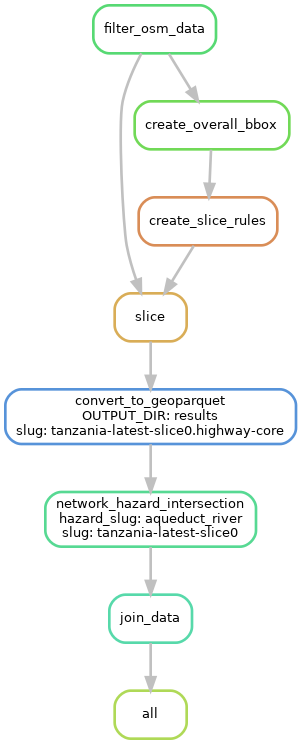
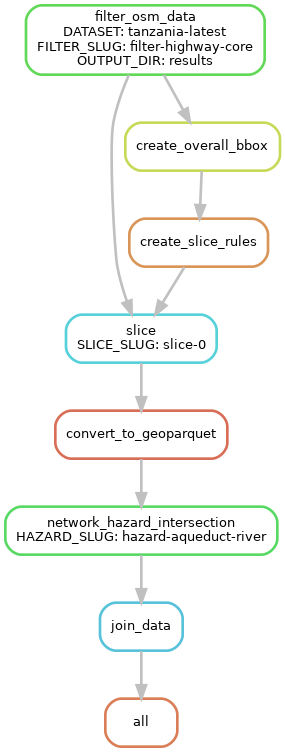
Regularise wildcard slugs
The wildcard patterns were hard to disambiguate from one another due to different separators. This commit fixes this issue by always using _ to separate different parts of the filename.
* All slugs are separated by _
* _ is not allowed in any slug
* All slug wildcards include their slug name as a prefix, e.g. slice-0, filter-highway-core
* Rules use wildcard specifications wherever possible
* Explicit (expand-based) file expectations are moved to a test_<rule_name> rule so that rules can be individually tested and debugged (avoiding the Snakemake constraint that you can't run a wildcard rule as the endpoint).
* The highway-core section of each file is now generated programatically from the base filename of the filter file
* Hazard and filter filenames (and the dataset) have _ replaced with - to avoid conflicts with wildcards
* Slice now appears after filter in the filenames
* Updated tests to respect new file naming conventions
* Updated documentation to respect new file naming conventions
* Updated DAGs to show cleaner wildcard-based workflow

Changed region(s): [[0.0, 0.0, 1.0, 1.0], [0.0, 0.5255, 0.0561, 0.5874]]

diff --git a/workflow/scripts/network_hazard_intersection.py b/workflow/scripts/network_hazard_intersection.py
@@ -15,12 +15,11 @@ from pyproj import Geod
 from snail.core.intersections import get_cell_indices, split_linestring
 from tqdm import tqdm
 
-
 def main(network_edges_path, attrs, hazard_data_path, hazard_data_csv, outputs_path):
     # Filename to use for output
-    network_slug = os.path.basename(network_edges_path).replace(".geoparquet", "")
-    hazard_slug = os.path.basename(hazard_data_csv).replace(".csv", "")
-    slug = f"{network_slug}_{hazard_slug}"
+    network_slug = os.path.basename(network_edges_path).replace(".geoparquet", "")  # already _ safe
+    hazard_slug = os.path.basename(hazard_data_csv).replace(".csv", "").replace("_", "-")
+    slug = f"{network_slug}_hazard-{hazard_slug}"
 
     # Read hazard metadata
     # This is a config/steering file for this script, assumes hazards are all on the same
@@ -92,11 +91,11 @@ def main(network_edges_path, attrs, hazard_data_path, hazard_data_csv, outputs_p
             os.path.join(hazard_data_path, raster.filename))
 
     logging.info("Write data")
-    core_splits.to_parquet(os.path.join(outputs_path, f'{slug}_splits.geoparquet'))
+    core_splits.to_parquet(os.path.join(outputs_path, f'{slug}.geoparquet'))
 
     logging.info("Write data without geometry")
     pandas.DataFrame(core_splits.drop(columns=['geometry'])) \
-        .to_parquet(os.path.join(outputs_path, f'{slug}_splits.parquet'))
+        .to_parquet(os.path.join(outputs_path, f'{slug}.parquet'))
 
     logging.info("Done.")
 
@@ -116,11 +115,11 @@ def write_empty_files(columns, slug, outputs_path):
         raise ValueError("Empty dataframe must contain a geometry column")
     logging.info("Write data")
     empty_geodf.to_parquet(
-        os.path.join(outputs_path, f"{slug}_splits.geoparquet")
+        os.path.join(outputs_path, f"{slug}.geoparquet")
     )
     logging.info("Write data without geometry")
     pandas.DataFrame(empty_geodf.drop(columns=["geometry"])).to_parquet(
-        os.path.join(outputs_path, f"{slug}_splits.parquet")
+        os.path.join(outputs_path, f"{slug}.parquet")
     )
 
 
@@ -128,7 +127,7 @@ if __name__ == "__main__":
     logging.basicConfig(format="%(asctime)s %(message)s", level=logging.INFO)
     tqdm.pandas()
     try:
-        network_edges_path = snakemake.input["network"]
+        network_edges_path = snakemake.input['network']
         attrs = snakemake.config["edge_attrs"]
         hazard_data_path = snakemake.config["hazard_data_dir"]
         hazard_csv = snakemake.input["hazard_csv"]

diff --git a/tests/unit/test_network_hazard_intersection.py b/tests/unit/test_network_hazard_intersection.py
@@ -22,20 +22,22 @@ def test_network_hazard_intersection():
         shutil.copytree(data_path, workdir)
 
         # dbg
-        print("results/splits/northeast-oxford-slice0.highway-core_aqueduct_river_splits.geoparquet results/splits/northeast-oxford-slice0.highway-core_aqueduct_river_splits.parquet", file=sys.stderr)
+        print("results/splits/northeast-oxford_filter-highway-core_slice-0_hazard-aqueduct-river.geoparquet results/splits/northeast-oxford_filter-highway-core_slice-0_hazard-aqueduct-river.parquet", file=sys.stderr)
 
         # Run the test job.
         sp.check_output([
             "python",
             "-m",
             "snakemake",
-            "results/splits/northeast-oxford-slice0.highway-core_aqueduct_river_splits.geoparquet",
-            "results/splits/northeast-oxford-slice0.highway-core_aqueduct_river_splits.parquet",
-            "-Fn",
+            "results/splits/northeast-oxford_filter-highway-core_slice-0_hazard-aqueduct-river.geoparquet",
+            "results/splits/northeast-oxford_filter-highway-core_slice-0_hazard-aqueduct-river.parquet",
+            # "-F",
             "-j1",
             "--keep-target-files",
             "--configfile",
             "tests/config.yaml",
+            "--config",
+            "slice_count=1",
     
             "--directory",
             workdir,

diff --git a/tests/unit/test_slice.py b/tests/unit/test_slice.py
@@ -22,21 +22,20 @@ def test_slice():
         shutil.copytree(data_path, workdir)
 
         # dbg
-        print("results/slices/northeast-oxford-slice0.highway-core.osm.pbf", file=sys.stderr)
+        print("results/slices/northeast-oxford_filter-highway-core_slice-0.osm.pbf", file=sys.stderr)
 
         # Run the test job.
         sp.check_output([
             "python",
             "-m",
             "snakemake", 
-            "results/slices/northeast-oxford-slice0.highway-core.osm.pbf",
+            "results/slices/northeast-oxford_filter-highway-core_slice-0.osm.pbf",
             # "-F",
             "-j1",
             "--keep-target-files",
             "--configfile",
             "tests/config.yaml",
-            "--config",
-            "slice_count=1",
+
             "--directory",
             workdir,
         ])

diff --git a/tests/unit/test_join_data.py b/tests/unit/test_join_data.py
@@ -22,14 +22,14 @@ def test_join_data():
         shutil.copytree(data_path, workdir)
 
         # dbg
-        print("results/northeast-oxford.highway-core_aqueduct_river_splits.geoparquet", file=sys.stderr)
+        print("results/northeast-oxford_filter-highway-core_hazard-aqueduct-river.geoparquet", file=sys.stderr)
 
         # Run the test job.
         sp.check_output([
             "python",
             "-m",
             "snakemake", 
-            "results/northeast-oxford.highway-core_aqueduct_river_splits.geoparquet",
+            "results/northeast-oxford_filter-highway-core_hazard-aqueduct-river.geoparquet",
             "-F", 
             "-j1",
             "--keep-target-files",

diff --git a/tests/unit/test_convert_to_geoparquet.py b/tests/unit/test_convert_to_geoparquet.py
@@ -22,14 +22,14 @@ def test_convert_to_geoparquet():
         shutil.copytree(data_path, workdir)
 
         # dbg
-        print("results/geoparquet/northeast-oxford-slice0.highway-core.geoparquet", file=sys.stderr)
+        print("results/geoparquet/northeast-oxford_filter-highway-core_slice-0.geoparquet", file=sys.stderr)
 
         # Run the test job.
         sp.check_output([
             "python",
             "-m",
             "snakemake", 
-            "results/geoparquet/northeast-oxford-slice0.highway-core.geoparquet",
+            "results/geoparquet/northeast-oxford_filter-highway-core_slice-0.geoparquet",
             "-F", 
             "-j1",
             "--keep-target-files",

diff --git a/tests/unit/test_create_slice_rules.py b/tests/unit/test_create_slice_rules.py
@@ -22,14 +22,14 @@ def test_create_slice_rules():
         shutil.copytree(data_path, workdir)
 
         # dbg
-        print("results/json/northeast-oxford-extracts.geojson", file=sys.stderr)
+        print("results/json/northeast-oxford_filter-highway-core-extracts.geojson", file=sys.stderr)
 
         # Run the test job.
         sp.check_output([
             "python",
             "-m",
             "snakemake", 
-            "results/json/northeast-oxford-extracts.geojson",
+            "results/json/northeast-oxford_filter-highway-core-extracts.geojson",
             "-F", 
             "-j1",
             "--keep-target-files",

diff --git a/workflow/scripts/prepare-extracts.py b/workflow/scripts/prepare-extracts.py
@@ -69,8 +69,8 @@ for extract in originaljsonfile["extracts"]:
     dataset, ext = splitext(extract["output"])
     for n, bbox in enumerate(slice_subextracts(extract["bbox"], n)):
         subextractsjson["extracts"].append(
-            {"bbox": bbox, "output": f"{dataset}-slice{n}{ext}"}
+            {"bbox": bbox, "output": f"{dataset}_slice-{n}{ext}"}
         )
-    with open(join(out_dir, "json", dataset + "-extracts.geojson"), "w") as fp:
+    with open(join(out_dir, "json", f"{dataset}-extracts.geojson"), "w") as fp:
         json.dump(subextractsjson, fp, indent=4)
     subextractsjson["extracts"].clear()

diff --git a/tests/unit/test_filter_osm_data.py b/tests/unit/test_filter_osm_data.py
@@ -22,14 +22,14 @@ def test_filter_osm_data():
         shutil.copytree(data_path, workdir)
 
         # dbg
-        print("results/northeast-oxford.highway-core.osm.pbf", file=sys.stderr)
+        print("results/northeast-oxford_filter-highway-core.osm.pbf", file=sys.stderr)
 
         # Run the test job.
         sp.check_output([
             "python",
             "-m",
             "snakemake", 
-            "results/northeast-oxford.highway-core.osm.pbf",
+            "results/northeast-oxford_filter-highway-core.osm.pbf",
             "-F", 
             "-j1",
             "--keep-target-files",

diff --git a/README.md b/README.md
@@ -131,26 +131,27 @@ associating road splits to corresponding flood levels.
 The pipeline consists in the following steps:
 
 1. The initial OSM dataset is filtered, keeping only relevant tags for road links
-   (using `osmium tags-filter`. This results in a smaller file
-   `<output_dir>/<dataset>.highway-core.osm.pbf`.
+   (using `osmium tags-filter`). This results in a smaller file
+   `<output_dir>/<dataset>.<filters>.osm.pbf`, where `<filters>` is the
+   filename of the `osmium_tags_filter` file in the config.
 2. The OSM dataset's headers are examined for a `bbox` property and that is used
    to determine the bounding box for the whole area (`<output_dir>/json/<dataset>.json`).
 3. The OSM dataset bounding box is sliced into a grid of smaller bounding boxes
    according to the `slice_count` config option (`<output_dir>/json/<dataset>-extracts.geojson`).
 4. The filtered OSM file is sliced into areas of equal size using the bounding 
-   box grid (`<output_dir>/slices/<dataset>-slice<N>.osm.pbf`).
+   box grid (`<output_dir>/slices/<dataset>_slice<N>.osm.pbf`).
 5. Each filtered OSM dataset slice is then converted to the GeoParquet data format,
-   resulting in `<output_dir>/geoparquet/<dataset>-slice<N>.highway-core.geoparquet`.
+   resulting in `<output_dir>/geoparquet/<dataset>_slice<N>_<filters>.geoparquet`.
 6. Each geoparquet slice is intersected against flood level data from the
    aqueduct dataset. The aqueduct dataset itself consists of a collection of
    raster data files. The network/hazard intersection results in data
-   `<output_dir>/splits/<dataset>-slice<N>.highway-core.splits.geoparquet` describing
+   `<output_dir>/splits/<dataset>_slice<N>_<filters>.splits.geoparquet` describing
    roads split according to the raster grid and associated flood level values.
    A corresponding `parquet` files (without geometries) is also created.
 7. Split data (one file per slice, see step 1) is then joined into a unique
    dataset describing splits and associated flood level values for the whole
    original OSM dataset. This results in
-   `<output_dir>/<dataset>.highway-core_aqueduct_river_splits.geoparquet`.
+   `<output_dir>/<dataset>_filter-<filters>_hazard-aqueduct-river.geoparquet`.
 
 ### Keeping things tidy
 
@@ -161,7 +162,7 @@ snakemake clean
 ```
 
 Note that this will *not* remove the final data files
-`<output_dir>/<dataset>.highway-core.splits.[geoparquet, parquet]`.
+`<output_dir>/<dataset>.<filters>.splits.[geoparquet, parquet]`.
 
 Snakemake has utilities to improve the workflow code quality:
 - `snakemake --lint` suggests improvements and fixes for common problems

diff --git a/docs/src/user-guide/outputs/slice.md b/docs/src/user-guide/outputs/slice.md
@@ -1,16 +1,16 @@
 # Slice OSM dataset
 
-The filtered dataset (`./results/tanzania-latest.highway-core.osm.pbf`) is sliced into areas of equal size
+The filtered dataset (`./results/tanzania-latest_filter-highway-core.osm.pbf`) is sliced into areas of equal size
 according to the slices defined in (`./data/tanzania-latest-extracts.geojson`).
 We'll find these in the `results/slices` directory.
 As with the main .osm.pbf file, we can view this in QGIS. 
 
-Open QGIS and load in the _lines_ for the filtered datafile, `./data/tanzania-latest.highway-core.osm.pbf`.
+Open QGIS and load in the _lines_ for the filtered datafile, `./data/tanzania-latest_filter-highway-core.osm.pbf`.
 When that's loaded, pull up one of the slices we created.
 Several of the slices will not have road information, so we won't get any feedback in QGIS that
 we've got any information in there at all. 
 So we'll pick one that _does_ have information, slice 32 (Dar es Salaam):
-`./results/slices/tanzania-latest-slice32.osm.pbf`.
+`./results/slices/tanzania-latest_filter-highway-core_slice-32.osm.pbf`.
 Load up the _lines_ in that and you should see that it doubles up the road lines around Dar es Salaam
 (Eastern coast of Tanzania).
 In the image below, we have recoloured the lines so that the lines for slice 32 are in yellow.

diff --git a/docs/src/user-guide/outputs/join.md b/docs/src/user-guide/outputs/join.md
@@ -2,12 +2,12 @@
 
 Finally, the split data files are reunited to produce a .geoparquet file that contains infrastructure-hazard
 information for the whole of the original .osm.pbf file.
-This file is `./results/tanzania-latest.highway-core.splits.geoparquet`.
+This file is `./results/tanzania-latest_filter-highway-core_hazard-aqueduct-river.geoparquet`.
 Let's open it up in Python and have a look:
 
 ```python
 # geopandas already imported
-result_file = 'results/tanzania-latest.highway-core_aqueduct_river_splits.geoparquet'
+result_file = 'results/tanzania-latest_filter-highway-core_hazard-aqueduct-river.geoparquet'
 result = geopandas.read_parquet(result_file)
 print(result)
 ```

diff --git a/docs/src/user-guide/outputs/filter.md b/docs/src/user-guide/outputs/filter.md
@@ -7,7 +7,9 @@ match one of the types we specified in `./config/filters.txt`, or whichever othe
 as the `osmium_tags_filters_file` variable in `./config/config.yaml`).
 
 This file is in `./results`, so let's open it up in QGIS.
-Load `./results/tanzania-latest.highway-core.osm.pbf`, 
+It will have been renamed to indicate that it's been filtered 
+(using the filename of the `osmium_tags_filters_file`).
+Load `./results/tanzania-latest_filter-highway-core.osm.pbf`, 
 and notice that there are fewer roads than in the previous file.
 We've coloured the roads in the new file in red.
 
